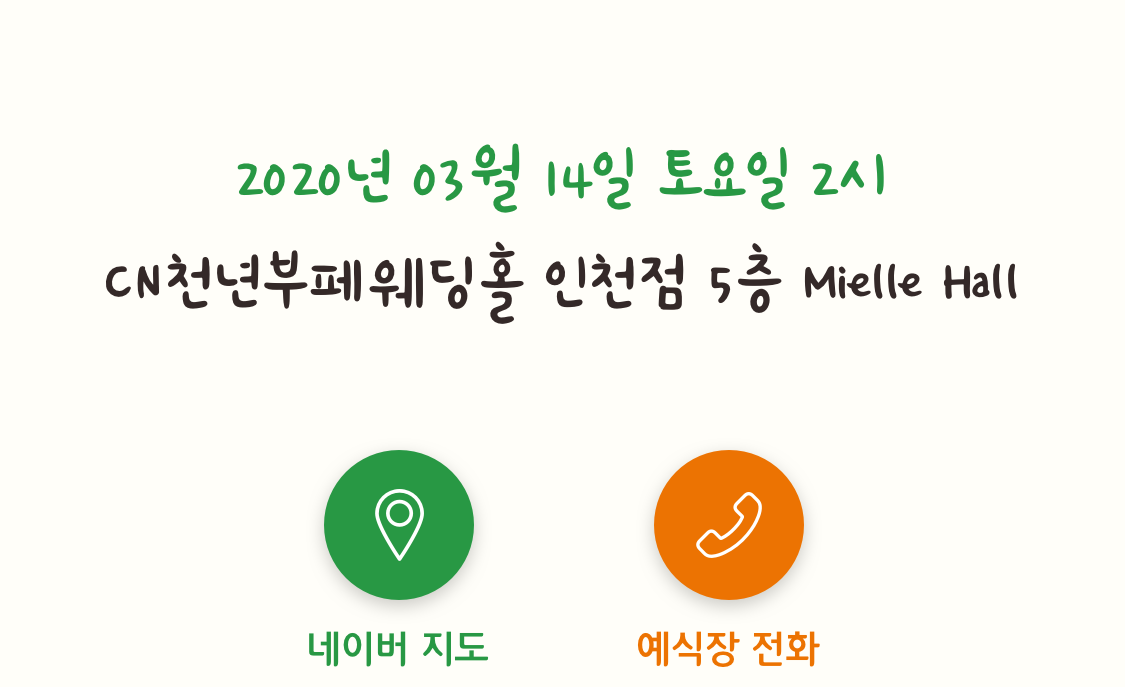
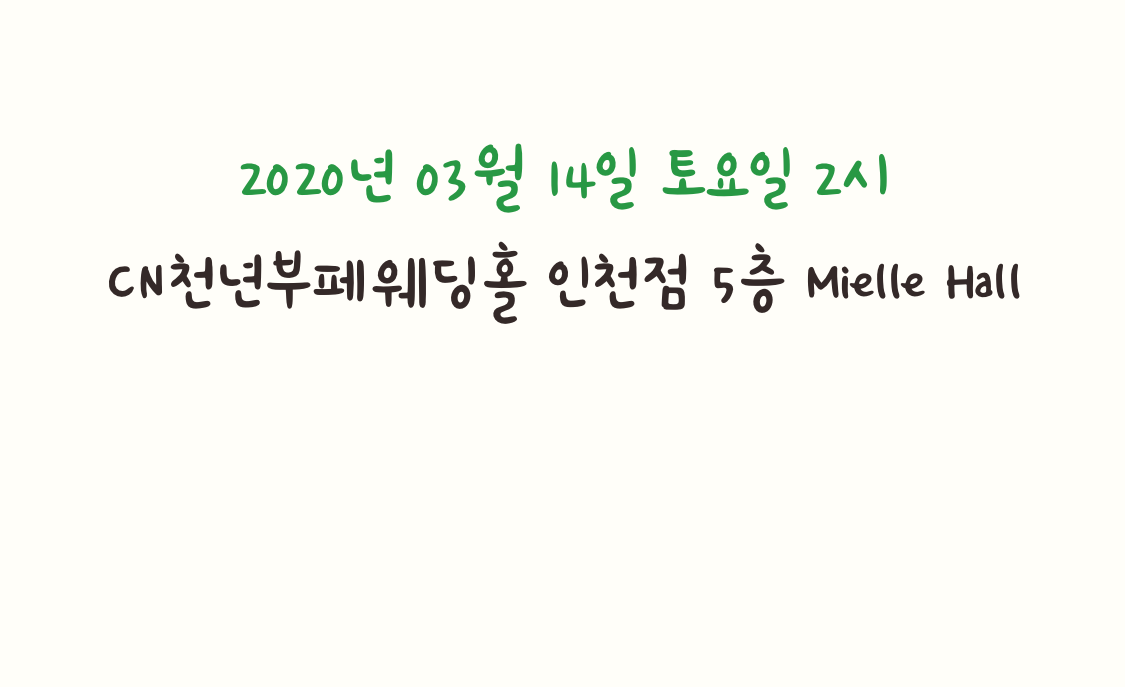
이미지 배치 수정 및 아이콘 수정

diff --git a/index.html b/index.html
@@ -20,8 +20,8 @@
   <meta property="og:title" content="하태욱 ♡ 김이진">
   <meta property="og:url" content="https://iiaii.github.io/wedding/.">
   <meta property="og:description" content="저희 결혼합니다.">
-  <meta property="og:image" content="./assets/image/og.jpeg"/>
-  <meta property="og:image:type" content="image/jpeg"/>
+  <meta property="og:image" content="./assets/image/opengraph@3x.jpg"/>
+  <meta property="og:image:type" content="image/jpg"/>
   <meta property="og:image:width" content="600"/>
   <meta property="og:image:height" content="315"/>
 
@@ -90,43 +90,42 @@
     <div class="col-lg-12" style="padding: 0px">
       <div>
         <!-- <img src="/assets/image/image01.jpeg" alt="" style="width: 100%"/> -->
-        <img src="./assets/image/image01.jpg" alt="" style="width: 100%"/>
+        <img src="./assets/image/main@3x.png" alt="" style="width: 100%"/>
       </div>
       <div class="gallery">
-        <div class="wrap-owl">
+        <div class="wrap-owl" style="margin-top: 12%;">
           <div id="owl-demo" class="owl-carousel owl-theme">
 
-            <div class="item"><img src="./assets/image/slide01.jpg" alt="S1"></div>
-            <div class="item"><img src="./assets/image/slide01.jpg" alt="S2"></div>
+            <div class="item"><img src="./assets/image/slide01@3x.jpg" alt="S1"></div>
+            <div class="item"><img src="./assets/image/slide01@3x.jpg" alt="S2"></div>
             <!--            <div class="item"><img src="/assets/image/s3.jpeg" alt="S3"></div>-->
-            <div class="item"><img src="./assets/image/slide01.jpg" alt="S4"></div>
+            <div class="item"><img src="./assets/image/slide01@3x.jpg" alt="S4"></div>
             <!--            <div class="item"><img src="/assets/image/s5.jpeg" alt="S1"></div>-->
 
           </div>
         </div>
-
       </div>
 
       <div>
-        <img src="./assets/image/image02-2.jpeg" alt="" style="width: 100%"/>
+        <img src="./assets/image/slidebackground@3x.png" alt="" style="width: 100%"/>
       </div>
 
 
       <div class="row">
         <div class="col-xs-12">
-          <div style="position: absolute; left: 0; right: 0; bottom: 10px;">
+          <div style="position: absolute; left: 0; right: 0; bottom: 5px;">
 
             <div class="row" style="padding-top: 20px">
               <div class="col-xs-3"></div>
               <div class="col-xs-3 text-center">
                 <a href="http://naver.me/xiAbKKdW"
                    target="_blank">
-                  <img src="./assets/image/button2.png" style="width: 75px; margin-left: 0px"/>
+                  <img src="./assets/image/button2.png" style="width: 58px; margin-left: 0px"/>
                 </a>
               </div>
               <div class="col-xs-3 text-center">
                 <a href="tel:0325460070">
-                  <img src="./assets/image/button1.png" style="width: 75px; margin-right: 0px"/>
+                  <img src="./assets/image/button1.png" style="width: 58px; margin-right: 0px"/>
                 </a>
               </div>
               <div class="col-xs-3"></div>
@@ -134,14 +133,14 @@
 
           </div>
 
-          <img src="./assets/image/body1.png" alt="" style="width: 100%"/>
+          <img src="./assets/image/body1@3x.png" alt="" style="width: 100%"/>
         </div>
       </div>
       <div>
-        <img src="./assets/image/body2.png" alt="" style="width: 100%"/>
+        <img src="./assets/image/body2@3x.png" alt="" style="width: 100%"/>
       </div>
       <div>
-        <img src="./assets/image/footer.png" alt="" style="width: 100%"/>
+        <img src="./assets/image/footer@3x.png" alt="" style="width: 100%"/>
       </div>
     </div>
 

diff --git a/build/js/app.js b/build/js/app.js
@@ -718,7 +718,8 @@ $(function () {
   };
   e.Defaults = {
     nav: !1,
-    navText: ['<span aria-label="Previous">&#x2039;</span>', '<span aria-label="Next">&#x203a;</span>'],
+    navText: ['<span aria-label="Previous"></span>', '<span aria-label="Next"></span>'],
+    // navText: ['<span aria-label="Previous">&#x2039;</span>', '<span aria-label="Next">&#x203a;</span>'],
     navSpeed: !1,
     navElement: 'button type="button" role="presentation"',
     navContainer: !1,
@@ -875,8 +876,8 @@ $(function () {
       }
     },
     autoplay: true,
-    autoplayTimeout: 4000,
-    navText: ["<div id=\"btn-prev-owl\"><img src=\"/assets/image/arrow-left.png\"/></div>", "<div id=\"btn-next-owl\"><img src=\"/assets/image/arrow-right.png\"/></div>"]
+    autoplayTimeout: 5000,
+    // navText: ["<div id=\"btn-prev-owl\"><img src=\"./assets/image/arrow-left.png\"/></div>", "<div id=\"btn-next-owl\"><img src=\"./assets/image/arrow-right.png\"/></div>"]
   })
 });
 // Preloader
